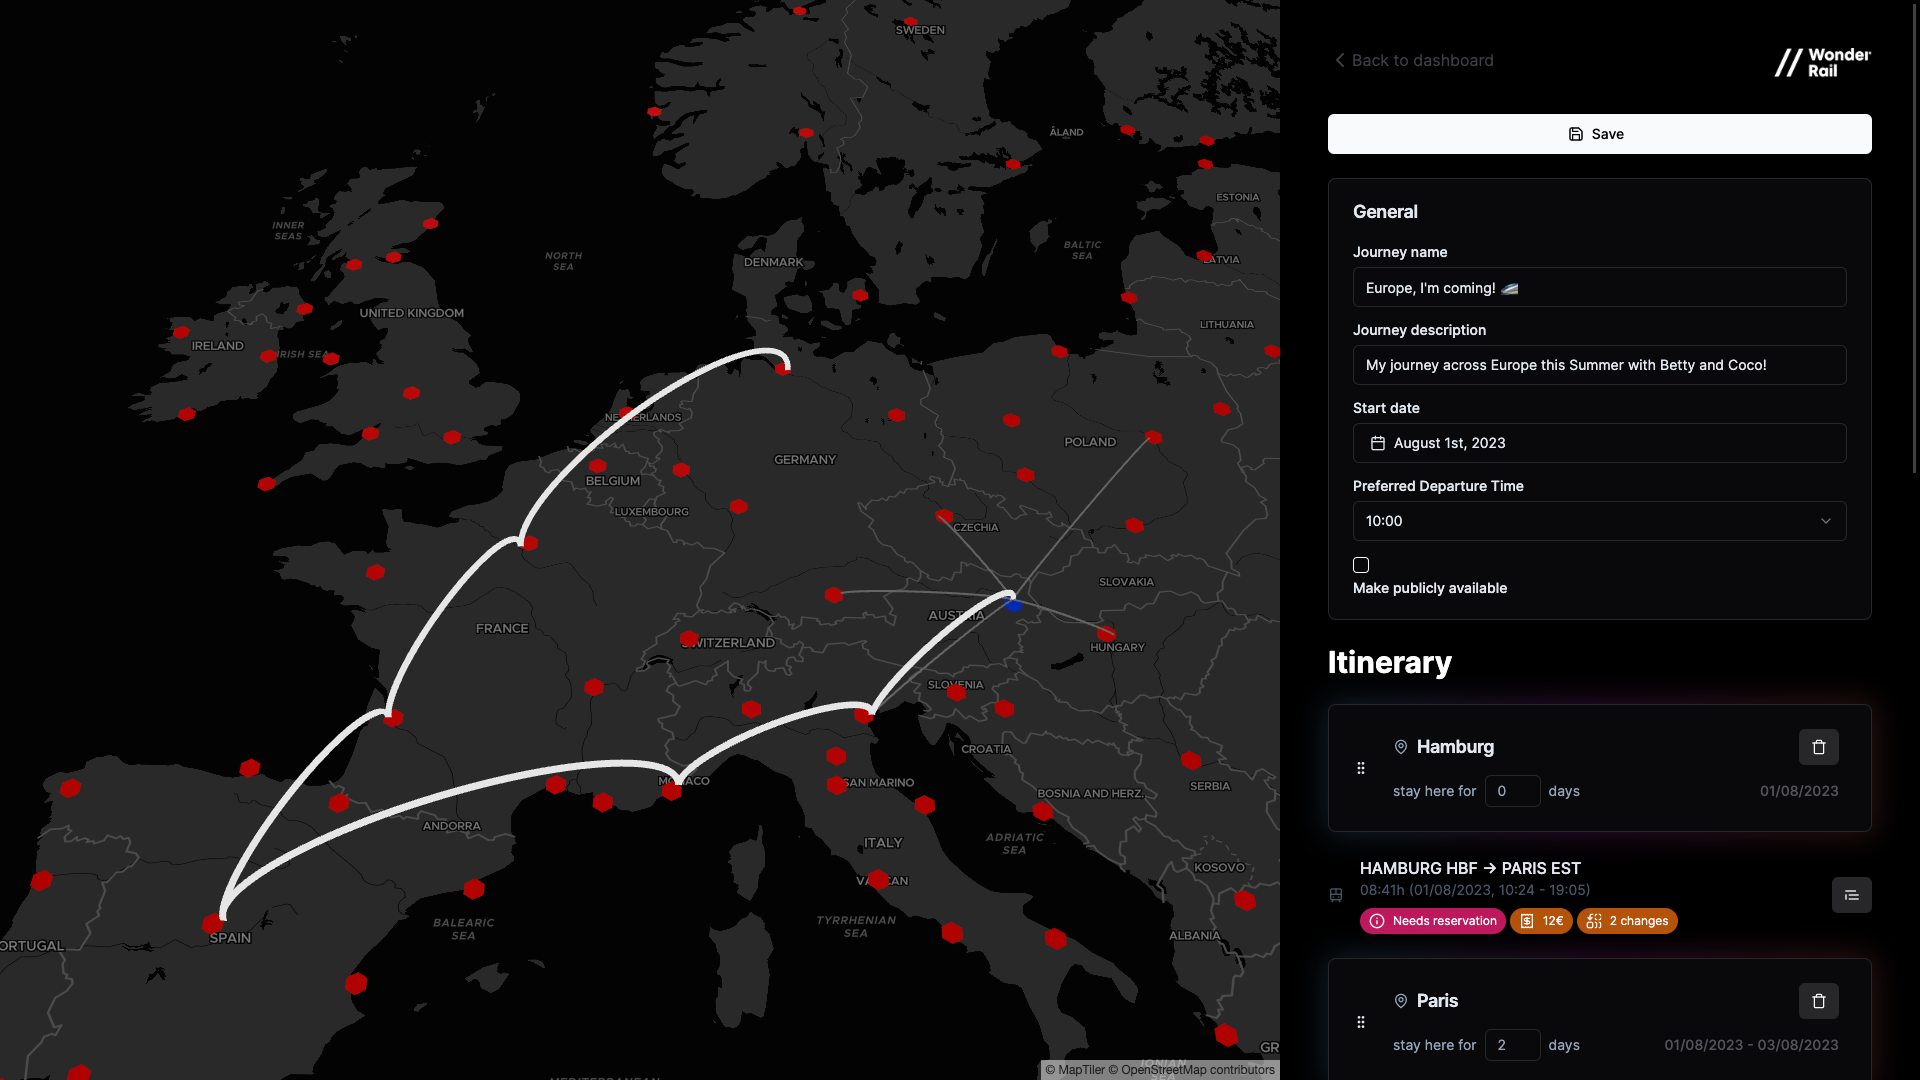
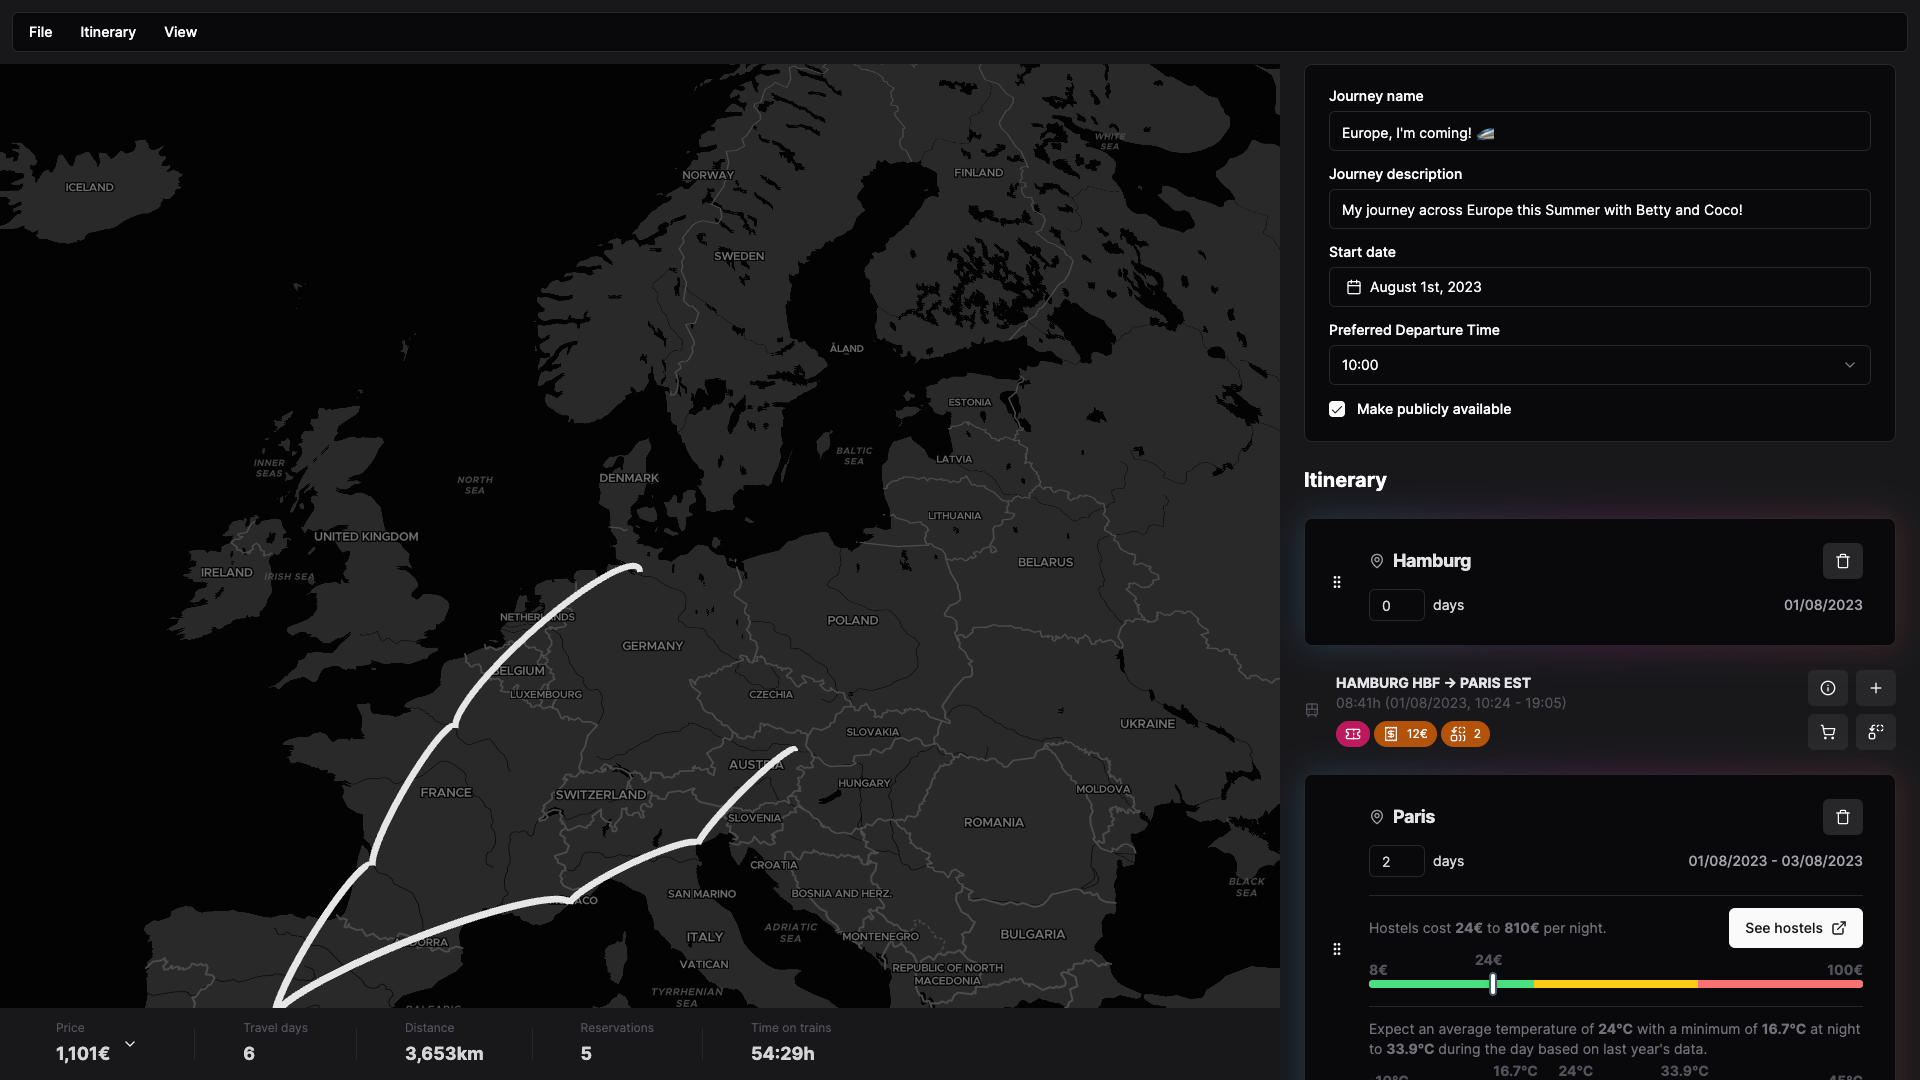
Updating landing page images

diff --git a/src/components/Landing/Highlights.tsx b/src/components/Landing/Highlights.tsx
@@ -41,7 +41,7 @@ function Highlights() {
             />
           }
           title="Your Travel Companion"
-          description="Our intelligent journey planner automates the process of selecting the best trains for your trip. Get all necessary details like train changes, ticket prices, and reservation requirements, all in one place."
+          description="Our intelligent journey planner automates the process of selecting the best trains for your trip. Get all necessary details like train changes, ticket prices, reservation requirements, hostel prices, and weather conditions, all in one place."
         />
 
         <Highlight
